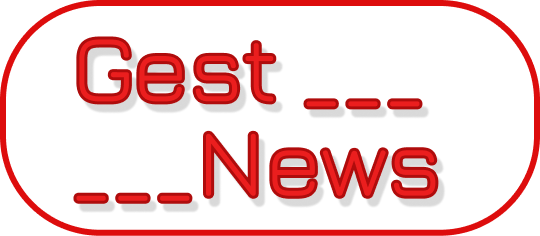
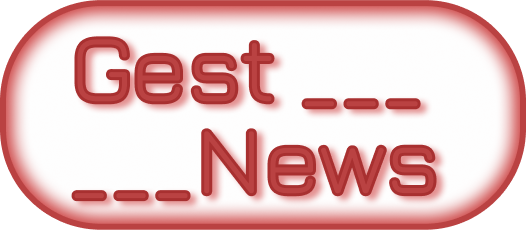
edit-color-pallet

diff --git a/src/components/Home/Notices.tsx b/src/components/Home/Notices.tsx
@@ -69,7 +69,7 @@ export default function Notices({data}: NoticiesData) {
   	return (
     	<div className="flex flex-col items-center mt-8 m-4">
 
-		<strong className="font-bold my-8 text-4xl text-red-500 underline underline-offset-8">-  NEWS  -</strong>
+		<strong className="font-bold my-8 text-4xl font-[jura] text-red-500 underline underline-offset-8">-  NEWS  -</strong>
 
 		<Pagination 
 			totalCountOfRegisters={data?.num_results}
@@ -79,7 +79,7 @@ export default function Notices({data}: NoticiesData) {
 			positionTop={true}
 		/>
 
-  		<div className='flex flex-col gap-14 sm:grid sm:grid-cols-2 2xl:grid-cols-3 sm:gap-28 my-10'>
+  		<div className='flex flex-col gap-14 sm:grid font-bold sm:grid-cols-2 2xl:grid-cols-3 sm:gap-28 my-10'>
 			{ data?.results?.map((val, index) => { 
 
 				let open = noticeOpen.map((noticeVal,noticeIndex) => {
@@ -89,31 +89,31 @@ export default function Notices({data}: NoticiesData) {
 				return ( index < pagination * 10 && (index >= (pagination * 10) - 10)) && (
 
 				<div className={`flex flex-col max-w-xl relative gap-4 pb-8 items-center shadow-boxCard rounded-xl group hover:shadow-boxRed bg-gray-50 duration-300 overflow-hidden ${ open[index] ? 'max-h-[900px] duration-1000' : 'max-h-[300px] '}`} key={index}>
-					<text className='absolute left-2 top-2 text-gray-50 font-bold px-2 duration-300 rounded-full group-hover:bg-red-400 bg-red-600/80 shadow-boxSmInset'>{index + 1}</text>
+					<text className='absolute left-2 top-2 text-gray-50 font-bold px-2 duration-500 rounded-full group-hover:bg-red-300 bg-red-500/80 shadow-boxSmInset'>{index + 1}</text>
 					
-					<text className='text-xl text-center p-4 px-10 w-full bg-red-700 text-gray-50 font-semibold shadow-bottomShade'>{val.title}</text>
+					<text className='text-xl text-center p-4 px-10 w-full bg-red-500 text-gray-50 font-bold shadow-bottomShade'>{val.title}</text>
 					
 					{ val.multimedia?.map((img, imgIndex) => { return imgIndex === 1 && (
 						<Image key={index} width={500} height={300} alt={img.caption} src={img.url} className='w-full duration-500 shadow-box group-hover:shadow-redShade h-[300px]'/>
 					)})}
 
 					<div className="p-6 gap-4 items-center w-full h-full flex flex-col">
-						<text className='font-medium w-full text-gray-800'>{val.abstract}</text>
+						<text className='w-full text-gray-800'>{val.abstract}</text>
 
-						<div className="self-start flex gap-2 text-base font-medium">
-							<text className="text-red-600 font-bold">By:</text>
+						<div className="self-start flex gap-2 text-base">
+							<text className="text-red-500">By:</text>
 							<text className="text-gray-400">{val.byline.slice(3)}</text>
 						</div>
 
 						<div className='flex w-full justify-between items-center mt-auto text-gray-400'>
-							<Link href={val.url} target={'_blank'} className='hover:bg-gray-100 p-2 flex gap-2 items-center px-4 rounded-full text-center duration-300 hover:text-red-600 font-semibold underline underline-offset-4'>
+							<Link href={val.url} target={'_blank'} className='hover:bg-gray-100 p-2 flex gap-2 items-center px-4 rounded-full text-center duration-300 hover:text-red-500 font-semibold underline underline-offset-4'>
 								Link to Notice
 								<FiArrowRightCircle size={20}/>
 							</Link>
 
 							<div className='flex flex-col sm:flex-row font-bold items-center sm:items-baseline text-xl text-red-500 gap-2 [textShadow:_1px_1px_2px_#adadadb3] '>
 								<text>{val.published_date.slice(0,10)}</text>
-								<span className="text-lg text-red-400">{val.published_date.slice(11, 16)}</span>
+								<span className="text-lg text-red-300">{val.published_date.slice(11, 16)}</span>
 							</div>
 						</div>
 						
@@ -122,7 +122,7 @@ export default function Notices({data}: NoticiesData) {
 							? {open:!noticeVal.open} 
 							: noticeVal
 						}))} 
-							className='flex gap-2 mt-4 w-36 p-1 px-4 absolute bottom-2 bg-gray-50 rounded-full items-center font-bold text-red-600 hover:bg-gray-100 duration-300'
+							className='flex gap-2 mt-4 w-36 p-1 px-4 absolute bottom-2 bg-gray-50 rounded-full items-center font-bold text-red-500 hover:bg-gray-100 duration-300'
 						>
 							{ !open[index] ? (
 								'View more'

diff --git a/src/components/Home/Categories.tsx b/src/components/Home/Categories.tsx
@@ -21,12 +21,12 @@ export default function Categories({categorySelect, setCategorySelect}: Category
 
    return (
       <div className="flex flex-col gap-8 items-center">
-         <strong className="text-4xl text-red-500 underline underline-offset-8">{'-  CATEGORIES  -'}</strong>
+         <strong className="text-4xl text-red-500 font-[jura] underline underline-offset-8">{'-  CATEGORIES  -'}</strong>
 
          <div className={`flex gap-6 p-6 sm:pl-10 justify-center w-full relative items-start overflow-hidden duration-700 transition-all shadow-boxSm border-b-4 rounded-3xl border-gray-400/50 
             ${openCategories?'h-80' :'h-24'}
          `}>
-            <button onClick={() => setOpenCategories(!openCategories)} className='p-2 shadow-boxSm rounded-full hover:brightness-75 group duration-500 bg-red-600 text-xl font-semibold text-gray-50 '>
+            <button onClick={() => setOpenCategories(!openCategories)} className='p-2 shadow-boxSm rounded-full hover:brightness-75 group duration-500 bg-red-500 text-xl font-semibold text-gray-50 '>
                <FiChevronRight size={36} className={` duration-300 ${openCategories?'rotate-90':'hover:rotate-12'}`}/>
             </button>
             <div className={`flex-wrap flex items-start gap-6 p-2 pr-4 h-full 2xl:h-auto 
@@ -36,7 +36,7 @@ export default function Categories({categorySelect, setCategorySelect}: Category
                <button key={val} onClick={() => selectCategory(val)} 
                   className={`p-2 border-2 w-36 border-gray-400 rounded-full hover:bg-gray-100/50 hover:text-red-600 
                   font-semibold duration-500 hover:border-red-600 text-center transition-all shadow-boxSm
-                  ${categorySelect===val?'bg-red-600 border-transparent text-gray-50':'relative text-gray-400'}
+                  ${categorySelect===val?'bg-red-500 border-transparent text-gray-50':'relative text-gray-400'}
                `}>
                   {val.charAt(0).toUpperCase() + val.slice(1)}
                </button>

diff --git a/src/components/Home/Carrossel.tsx b/src/components/Home/Carrossel.tsx
@@ -59,13 +59,13 @@ export default function Carroussel({data}: NoticiesData) {
                         <div className='flex flex-col items-center lg:flex-row flex-1 z-20 rounded-xl overflow-hidden shadow-box m-8 h-[400px] max-h-[460px] sm:h-[500px] sm:max-h-[550px]'>
                            
                            <div className='flex flex-col lg:w-[40%] w-full h-full items-center justify-center shadow-redShadeRight z-20'>
-                              <text className='text-xl text-center p-4 px-10 w-full bg-red-700 text-gray-50 font-semibold shadow-bottomShade'>{val.title}</text>
+                              <strong className='text-xl text-center p-4 px-10 w-full bg-red-400 text-gray-50 font-semibold shadow-bottomShade'>{val.title}</strong>
                               
                               { isDesktop && (
-                                 <text className='font-medium text-gray-800 m-6'>{val.abstract}</text>
+                                 <text className='font-semibold text-gray-800 m-6'>{val.abstract}</text>
                               )}
                               
-                              <Link href={val.url} target={'_blank'} className='hover:bg-gray-100/60 m-6 text-gray-400 p-2 flex gap-2 items-center px-6 sm:mt-auto sm:mr-auto rounded-full text-center duration-300 hover:text-red-600 font-semibold underline underline-offset-4'>
+                              <Link href={val.url} target={'_blank'} className='hover:bg-gray-100/60 m-6 text-gray-400 p-2 flex gap-2 items-center px-6 sm:mt-auto sm:mr-auto rounded-full text-center duration-300 hover:text-red-600 font-bold underline underline-offset-4'>
                                  Link da Reportagen
                                  <FiArrowRightCircle size={20}/>
                               </Link>

diff --git a/src/components/Header.tsx b/src/components/Header.tsx
@@ -12,7 +12,7 @@ export default function Header() {
   const isDesktop = useMediaQuery({ query: '(min-width: 640px)'})
 
   return (
-    <header className='flex justify-between gap-4 sm:gap-20 p-2 px-4 relative md:px-20 bg-red-600 items-center shadow-redShade'>
+    <header className='flex justify-between gap-4 sm:gap-20 p-2 px-4 relative md:px-20 bg-red-400 items-center shadow-redShade'>
           
           { isDesktop && (
               <Image src={LogoMarca} width='180' height='80' alt='' className='flex'/>
@@ -22,12 +22,12 @@ export default function Header() {
           )}
 
           
-          <button className='flex p-1 px-6 text-4xl font-semibold text-gray-50 hover:bg-red-700 duration-300 rounded-full'>
+          <button className='flex p-1 px-6 text-5xl font-bold font-[jura] text-gray-50 hover:bg-red-800 duration-300 rounded-full'>
             Home
             
           </button>
 
-          <Link href={'https://www.nytimes.com/'} target={'_blank'} className='flex cel:w-32 p-2 text-center text-xs realive self-end font-semibold text-gray-50 hover:underline duration-300 rounded-full'>
+          <Link href={'https://www.nytimes.com/'} target={'_blank'} className='flex cel:w-32 w-44 p-2 text-center text-xs realive self-end font-semibold text-gray-50 hover:underline duration-300 rounded-full'>
             {'Copyright (c) 2022 The New York Times Company. All Rights Reserved.'}
             
           </Link>

diff --git a/tailwind.config.js b/tailwind.config.js
@@ -11,18 +11,24 @@ module.exports = {
           '100': '#e7e7e7',
           '400': '#7c7c7c',
           '800': '#141414',
+        },
+        red: {
+          '300': '#f18989',
+          '400': '#BA4242',
+          '500': '#C73232',
+          '800': '#802e2e',
         }
       },
       boxShadow: {
-        'smInsetFadeRed': 'inset -1px -8px 4px #da8484',
+        'smInsetFadeRed': 'inset -1px -4px 6px #da8484',
         'insetFade': 'inset 0 0 20px 10px #0c0c0c',
         'boxSmInset': 'inset 1px 2px 3px 1px #831111',
         'boxSm': '2px 3px 8px 1px #adadad',
         'box': '8px 5px 16px 8px #c0c0c0e7',
         'boxCard': '5px 5px 14px 6px #bbb8b8ff',
-        'boxRed': '3px 3px 6px 4px #c20d0d5b',
-        'redShade': '0 0 6px 3px #d11d1dde',
-        'redShadeRight': '100px 0px 120px 60px #570a0ad5',
+        'boxRed': '3px 3px 14px 2px #d1333388',
+        'redShade': '0 0 6px 3px #db5454',
+        'redShadeRight': '100px 0px 120px 60px #882929bd',
         'bottomShade': '0 2px 6px #b91313de',
       }
     },

diff --git a/src/components/Pagination/PaginationItem.tsx b/src/components/Pagination/PaginationItem.tsx
@@ -7,14 +7,14 @@ interface PaginationItemProps {
 export function PaginationItem({number, isCurrent = false, onPageChange}: PaginationItemProps) {
    if (isCurrent) {
       return (
-         <button className="w-4 text-gray-50 p-1 px-4 bg-red-600 border-2 border-red-600 flex justify-center rounded-full">
+         <button className="w-4 text-gray-50 p-1 px-4 bg-red-400 border-2 border-red-400 flex justify-center rounded-full">
             {number}     
          </button>
       )
    }
 
    return (
-      <button className="w-4 p-1 px-4 bg-gray-50 border-2 hover:bg-red-600 duration-500 hover:text-gray-50 border-red-600 justify-center flex rounded-full"
+      <button className="w-4 p-1 px-4 bg-gray-50 border-2 hover:bg-red-400 duration-500 hover:text-gray-50 border-red-400 justify-center flex rounded-full"
          onClick={() => onPageChange(number)}
       >
          {number} 

diff --git a/src/components/Pagination/Pagination.tsx b/src/components/Pagination/Pagination.tsx
@@ -37,7 +37,7 @@ export function Pagination({
 
    return(
       <div className={`flex gap-5 justify-center overflow-hidden w-full max-w-3xl items-center text-gray-800  shadow-boxSm rounded-full `}>
-         <div className={`flex gap-4 p-8 w-full justify-center text-red-600 font-semibold items-center shadow-smInsetFadeRed`}>
+         <div className={`flex gap-4 p-8 w-full justify-center text-red-400 font-semibold items-center shadow-smInsetFadeRed`}>
 
             { currentPage > (1 + siblingsCount) && (
                <>

diff --git a/src/pages/_document.tsx b/src/pages/_document.tsx
@@ -7,7 +7,7 @@ export default class MyDocument extends Document{
             <Head>
                <link rel="preconnect" href="https://fonts.gstatic.com"/>
                <link href="https://fonts.googleapis.com/css2?family=Roboto:wght@400;500;700;900&display=swap" rel="stylesheet"/>
-            
+               <link href="https://fonts.googleapis.com/css2?family=Jura:wght@400;500;600;700&display=swap" rel="stylesheet"></link>
             </Head>
             <body>
                <Main/>

diff --git a/src/styles/globals.css b/src/styles/globals.css
@@ -8,7 +8,7 @@ body {
   padding: 0;
   margin: 0;
   -webkit-font-smoothing: antialiased;
-  font-family: Roboto, Oxygen,
+  font-family: Jura, Roboto, Oxygen,
     Ubuntu, Cantarell, Fira Sans, Droid Sans, Helvetica Neue, sans-serif;
 }
 
